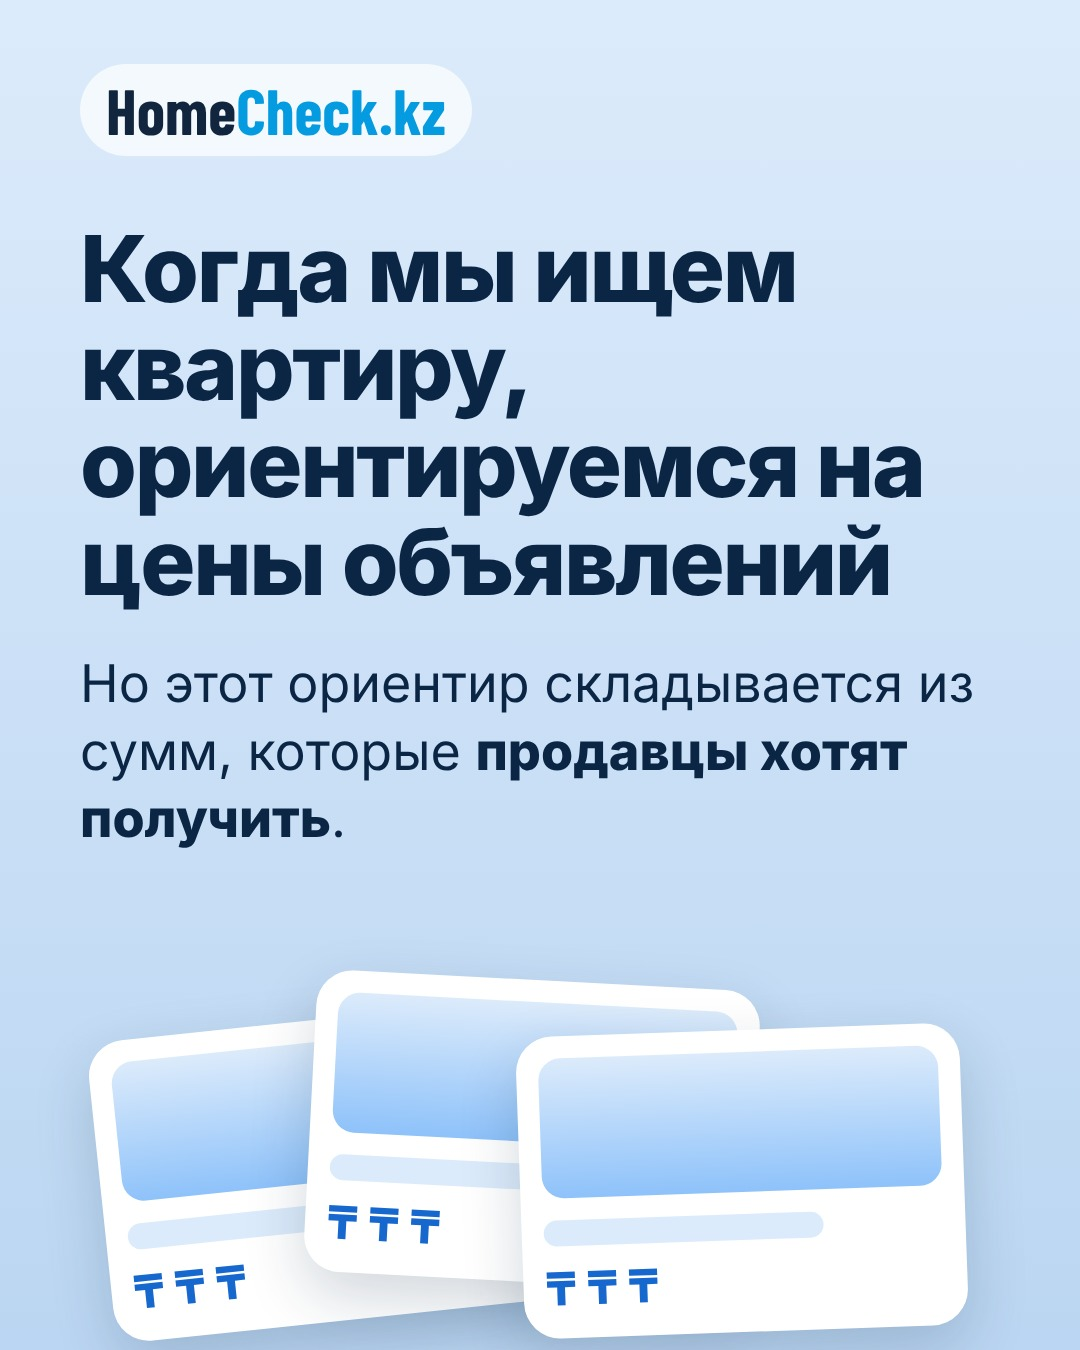
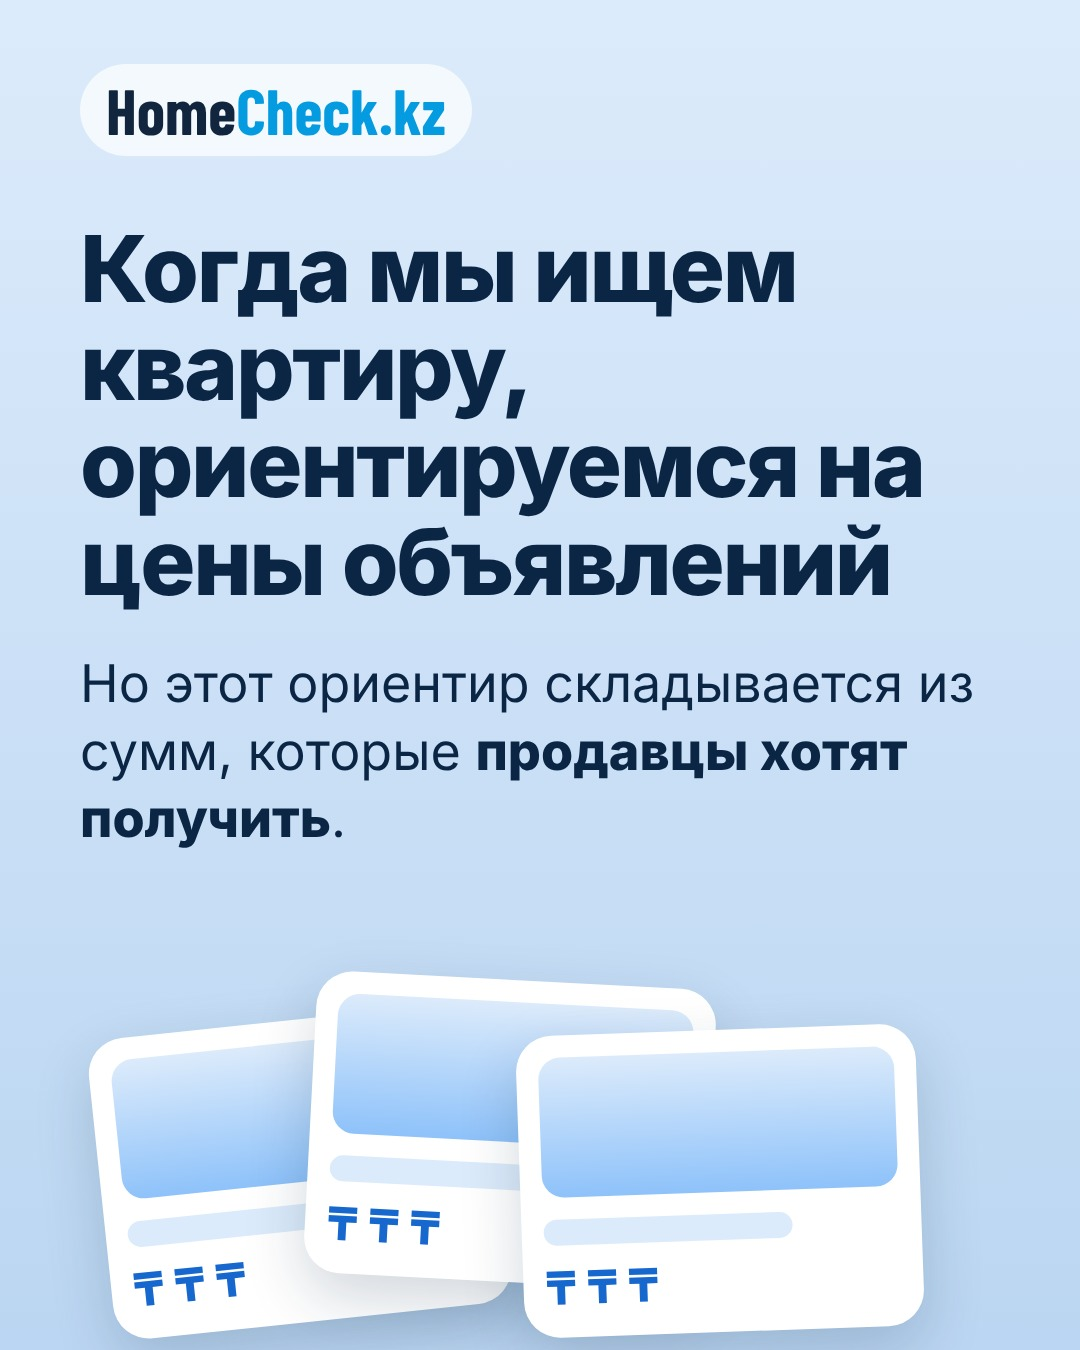
Analytics post: fix search card width on last slide
Claude-Session: https://claude.ai/code/session_01YPTRhbcfXRBnSeVtmn8ipe

diff --git a/posts/analitika-obyavleniya-sdelki/build.py b/posts/analitika-obyavleniya-sdelki/build.py
@@ -26,7 +26,7 @@ body{{margin:0}}
 .p b{{font-weight:800}}
 .lb{{margin:0;font-size:38px;line-height:1.3;opacity:.8}}
 .y{{color:{YEL}}} .bl{{color:{BLUE}}}
-.card{{background:#fff;border-radius:36px;box-shadow:0 24px 60px rgba(11,37,69,.18);color:{NAVY}}}
+.card{{box-sizing:border-box;background:#fff;border-radius:36px;box-shadow:0 24px 60px rgba(11,37,69,.18);color:{NAVY}}}
 """
 
 def logo():
